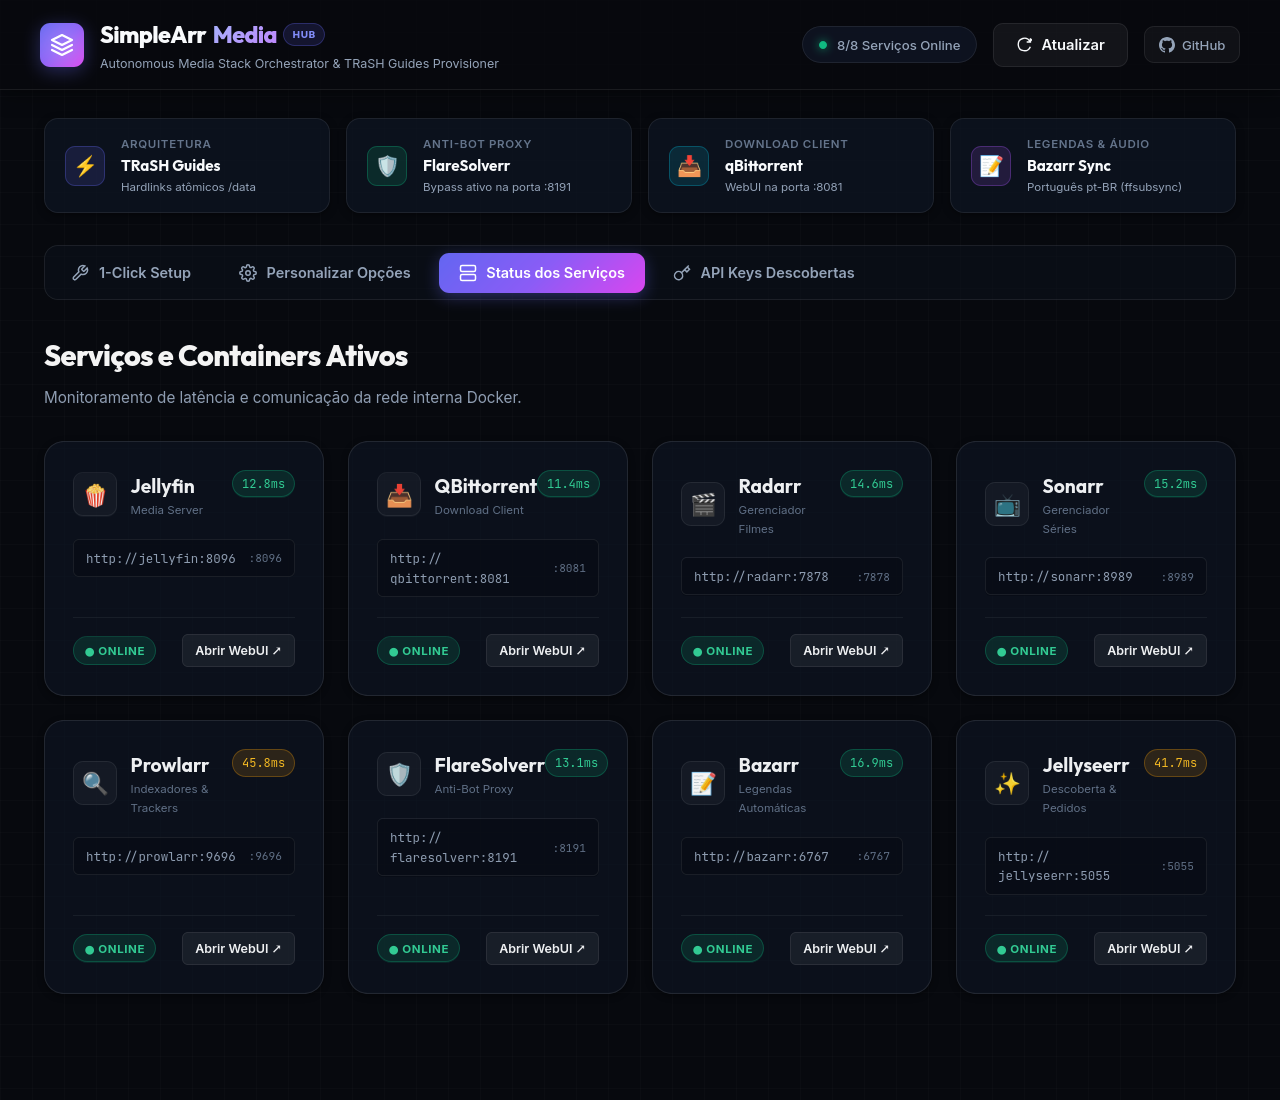
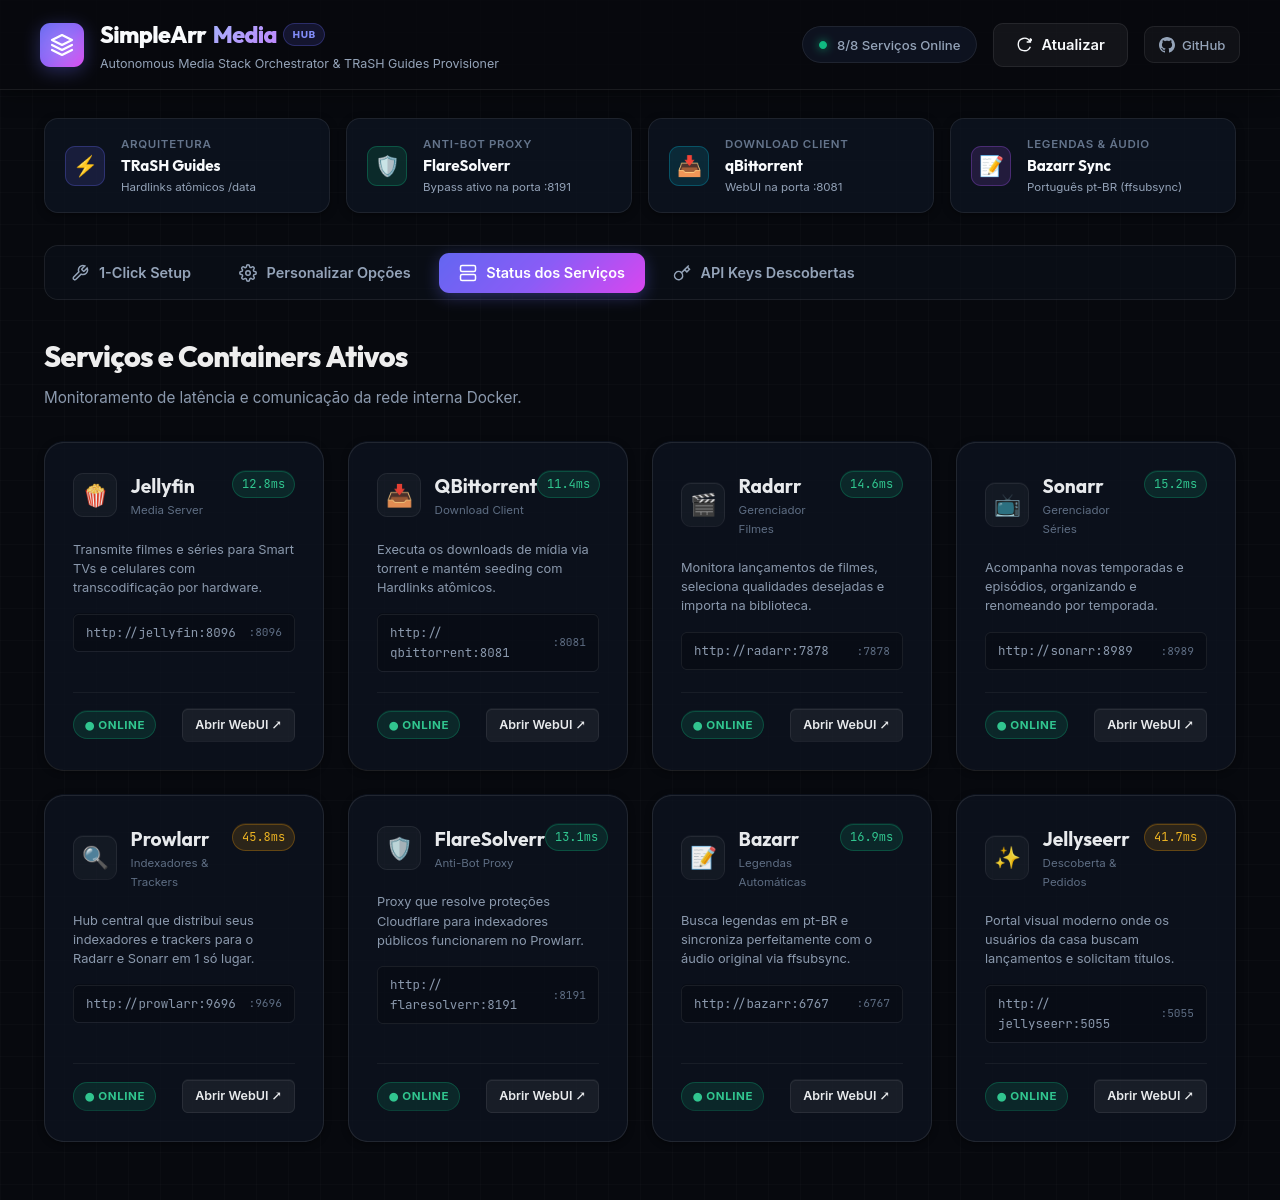
docs: add detailed responsibilities matrix for each service across documentation and UI

diff --git a/hub/app/static/index.html b/hub/app/static/index.html
@@ -608,6 +608,9 @@
                         </div>
                         <span class="service-latency-pill fast">12.8ms</span>
                     </div>
+                    <div class="service-desc-box">
+                        Transmite filmes e séries para Smart TVs e celulares com transcodificação por hardware.
+                    </div>
                     <div class="service-url-box">
                         <span>http://jellyfin:8096</span>
                         <span style="font-size: 0.7rem; color: var(--text-muted);">:8096</span>
@@ -629,6 +632,9 @@
                             </div>
                         </div>
                         <span class="service-latency-pill fast">11.4ms</span>
+                    </div>
+                    <div class="service-desc-box">
+                        Executa os downloads de mídia via torrent e mantém seeding com Hardlinks atômicos.
                     </div>
                     <div class="service-url-box">
                         <span>http://qbittorrent:8081</span>
@@ -652,6 +658,9 @@
                         </div>
                         <span class="service-latency-pill fast">14.6ms</span>
                     </div>
+                    <div class="service-desc-box">
+                        Monitora lançamentos de filmes, seleciona qualidades desejadas e importa na biblioteca.
+                    </div>
                     <div class="service-url-box">
                         <span>http://radarr:7878</span>
                         <span style="font-size: 0.7rem; color: var(--text-muted);">:7878</span>
@@ -673,6 +682,9 @@
                             </div>
                         </div>
                         <span class="service-latency-pill fast">15.2ms</span>
+                    </div>
+                    <div class="service-desc-box">
+                        Acompanha novas temporadas e episódios, organizando e renomeando por temporada.
                     </div>
                     <div class="service-url-box">
                         <span>http://sonarr:8989</span>
@@ -696,6 +708,9 @@
                         </div>
                         <span class="service-latency-pill medium">45.8ms</span>
                     </div>
+                    <div class="service-desc-box">
+                        Hub central que distribui seus indexadores e trackers para o Radarr e Sonarr em 1 só lugar.
+                    </div>
                     <div class="service-url-box">
                         <span>http://prowlarr:9696</span>
                         <span style="font-size: 0.7rem; color: var(--text-muted);">:9696</span>
@@ -717,6 +732,9 @@
                             </div>
                         </div>
                         <span class="service-latency-pill fast">13.1ms</span>
+                    </div>
+                    <div class="service-desc-box">
+                        Proxy que resolve proteções Cloudflare para indexadores públicos funcionarem no Prowlarr.
                     </div>
                     <div class="service-url-box">
                         <span>http://flaresolverr:8191</span>
@@ -740,6 +758,9 @@
                         </div>
                         <span class="service-latency-pill fast">16.9ms</span>
                     </div>
+                    <div class="service-desc-box">
+                        Busca legendas em pt-BR e sincroniza perfeitamente com o áudio original via ffsubsync.
+                    </div>
                     <div class="service-url-box">
                         <span>http://bazarr:6767</span>
                         <span style="font-size: 0.7rem; color: var(--text-muted);">:6767</span>
@@ -761,6 +782,9 @@
                             </div>
                         </div>
                         <span class="service-latency-pill medium">41.7ms</span>
+                    </div>
+                    <div class="service-desc-box">
+                        Portal visual moderno onde os usuários da casa buscam lançamentos e solicitam títulos.
                     </div>
                     <div class="service-url-box">
                         <span>http://jellyseerr:5055</span>

diff --git a/hub/app/static/app.js b/hub/app/static/app.js
@@ -254,16 +254,15 @@ document.addEventListener('DOMContentLoaded', () => {
         });
     }
 
-    // 5. Health Status & Live Latency Indicator
     const serviceMeta = {
-        jellyfin: { icon: '🍿', port: 8096, label: 'Media Server' },
-        qbittorrent: { icon: '📥', port: 8081, label: 'Download Client' },
-        radarr: { icon: '🎬', port: 7878, label: 'Gerenciador Filmes' },
-        sonarr: { icon: '📺', port: 8989, label: 'Gerenciador Séries' },
-        prowlarr: { icon: '🔍', port: 9696, label: 'Indexadores & Trackers' },
-        flaresolverr: { icon: '🛡', port: 8191, label: 'Anti-Bot Proxy' },
-        bazarr: { icon: '📝', port: 6767, label: 'Legendas Automáticas' },
-        jellyseerr: { icon: '✨', port: 5055, label: 'Descoberta & Pedidos' }
+        jellyfin: { icon: '🍿', port: 8096, label: 'Media Server', desc: 'Transmite filmes e séries para Smart TVs e celulares com transcodificação por hardware.' },
+        qbittorrent: { icon: '📥', port: 8081, label: 'Download Client', desc: 'Executa os downloads de mídia via torrent e mantém seeding com Hardlinks atômicos.' },
+        radarr: { icon: '🎬', port: 7878, label: 'Gerenciador Filmes', desc: 'Monitora lançamentos de filmes, seleciona qualidades desejadas e importa na biblioteca.' },
+        sonarr: { icon: '📺', port: 8989, label: 'Gerenciador Séries', desc: 'Acompanha novas temporadas e episódios, organizando e renomeando por temporada.' },
+        prowlarr: { icon: '🔍', port: 9696, label: 'Indexadores & Trackers', desc: 'Hub central que distribui seus indexadores e trackers para o Radarr e Sonarr em 1 só lugar.' },
+        flaresolverr: { icon: '🛡', port: 8191, label: 'Anti-Bot Proxy', desc: 'Proxy que resolve proteções Cloudflare para indexadores públicos funcionarem no Prowlarr.' },
+        bazarr: { icon: '📝', port: 6767, label: 'Legendas Automáticas', desc: 'Busca legendas em pt-BR e sincroniza perfeitamente com o áudio original via ffsubsync.' },
+        jellyseerr: { icon: '✨', port: 5055, label: 'Descoberta & Pedidos', desc: 'Portal visual moderno onde os usuários da casa buscam lançamentos e solicitam títulos.' }
     };
 
     async function loadHealthStatus(isManual = false) {
@@ -300,7 +299,7 @@ document.addEventListener('DOMContentLoaded', () => {
             const card = document.createElement('div');
             card.className = 'service-card';
             
-            const meta = serviceMeta[name] || { icon: '📦', port: '', label: 'Container' };
+            const meta = serviceMeta[name] || { icon: '📦', port: '', label: 'Container', desc: 'Serviço da stack de mídia.' };
             const webLink = meta.port ? `http://${window.location.hostname}:${meta.port}` : s.url;
             
             let latencyClass = 'fast';
@@ -319,6 +318,10 @@ document.addEventListener('DOMContentLoaded', () => {
                     <span class="service-latency-pill ${latencyClass}">
                         ${s.latency_ms ? s.latency_ms + 'ms' : '--'}
                     </span>
+                </div>
+
+                <div class="service-desc-box">
+                    ${meta.desc}
                 </div>
 
                 <div class="service-url-box">

diff --git a/hub/app/static/style.css b/hub/app/static/style.css
@@ -1408,6 +1408,14 @@ input:checked + .slider:before {
     color: #fb7185;
 }
 
+.service-desc-box {
+    font-size: 0.8rem;
+    color: var(--text-secondary);
+    line-height: 1.5;
+    margin-bottom: 1rem;
+    min-height: 2.5rem;
+}
+
 .service-url-box {
     background: rgba(7, 10, 18, 0.6);
     border: 1px solid var(--border-subtle);

diff --git a/README.md b/README.md
@@ -68,6 +68,22 @@ O projeto inclui uma interface de controle própria rodando na porta `5000` para
 
 ![SimpleArr Hub API Keys](docs/screenshots/04_api_keys.png)
 
+## 🧭 Papel e Responsabilidade de Cada Serviço
+
+Para quem está começando no ecossistema *arr, a divisão modular de responsabilidades é o segredo para uma stack estável e autônoma:
+
+| Serviço | Porta | Papel Principal | O que ele faz & Por que existe |
+| :--- | :--- | :--- | :--- |
+| **SimpleArr Hub** | 🚀 `:5000` | **Orquestrador Central** | Automação e setup em 1 clique. Descobre API keys, testa a rede e aplica as regras do TRaSH Guides automaticamente. |
+| **Jellyseerr** | ✨ `:5055` | **Vitrine de Descobertas** | Portal visual moderno estilo Netflix para a família buscar lançamentos e solicitar filmes/séries em 1 clique. |
+| **Radarr** | 🎬 `:7878` | **Gerenciador de Filmes** | Monitora lançamentos de filmes, escolhe qualidades (1080p/4K), envia para download e organiza `/data/media/movies`. |
+| **Sonarr** | 📺 `:8989` | **Gerenciador de Séries** | Monitora temporadas e episódios semanais, renomeia arquivos e organiza pastas por temporada em `/data/media/tv`. |
+| **Prowlarr** | 🔍 `:9696` | **Hub de Indexadores & Trackers** | Cadastro central de sites de torrent (1337x, YTS, TPB, etc.). Sincroniza automaticamente com Radarr e Sonarr em 1 só lugar. |
+| **FlareSolverr** | 🛡 `:8191` | **Bypass Anti-Bot / Cloudflare** | Atua como proxy inteligente para responder a desafios Cloudflare de sites públicos sem que os trackers quebrem. |
+| **qBittorrent** | 📥 `:8081` | **Motor de Downloads** | Baixa os arquivos via torrent com alta performance e gerencia categorias (`movies`, `tv`) com seeding contínuo. |
+| **Bazarr** | 📝 `:6767` | **Legendas Automáticas** | Varre a biblioteca buscando legendas em pt-BR e sincroniza perfeitamente pelo áudio original do vídeo (`ffsubsync`). |
+| **Jellyfin** | 🍿 `:8096` | **Servidor de Streaming** | O "Netflix próprio": organiza pôsteres, metadados e faz transcodificação por hardware (Intel QSV) para Smart TVs e celulares. |
+
 ---
 
 ## 🌐 Portas e URLs de Acesso

diff --git a/docs/ARCHITECTURE.md b/docs/ARCHITECTURE.md
@@ -59,3 +59,34 @@ O Jellyfin expõe as portas de rede necessárias para descoberta automática sem
 * **`8096/tcp`**: Interface Web e streaming HTTP.
 * **`7359/udp`**: Protocolo de descoberta automática de clientes Jellyfin (Roku, Android TV, webOS, Tizen).
 * **`1900/udp`**: Protocolo SSDP / DLNA (para aparelhos e TVs antigas que não possuem o app na loja e transmitem via "Fontes de Mídia").
+
+---
+
+## 4. Matriz de Responsabilidades da Stack
+
+Cada container possui uma responsabilidade única e bem delimitada para garantir que falhas isoladas não paralisem toda a mídia:
+
+1. **Jellyseerr (`:5055`)**:
+   - **Papel**: Interface de descoberta para os usuários finais da casa.
+   - **Isolação**: Não faz downloads nem manipula arquivos de disco. Apenas se comunica via REST API com Radarr e Sonarr.
+
+2. **Radarr (`:7878`) & Sonarr (`:8989`)**:
+   - **Papel**: Inteligência de catalogação, verificação de qualidade (perfis 1080p/4K) e ordenação de arquivos.
+   - **Isolação**: Não baixam torrents diretamente; delegam o tráfego de rede P2P para o qBittorrent.
+
+3. **Prowlarr (`:9696`) & FlareSolverr (`:8191`)**:
+   - **Papel**: Abstração de indexadores e proxy anti-bot.
+   - **Isolação**: Radarr e Sonarr não precisam saber como resolver Cloudflare ou se comunicar com 10 sites diferentes; consultam apenas o Prowlarr.
+
+4. **qBittorrent (`:8081`)**:
+   - **Papel**: Motor exclusivo de download e upload (seeding).
+   - **Isolação**: Não renomeia nem decide onde os filmes finais devem ficar; salva em `/data/torrents` e deixa o Radarr/Sonarr criar os hardlinks em `/data/media`.
+
+5. **Bazarr (`:6767`)**:
+   - **Papel**: Busca e sincronização cirúrgica de legendas.
+   - **Isolação**: Executa em segundo plano sem travar o download do vídeo principal, corrigindo discrepâncias de tempo via `ffsubsync`.
+
+6. **Jellyfin (`:8096`)**:
+   - **Papel**: Entrega de streaming de alta fidelidade e transcodificação.
+   - **Isolação**: Apenas leitura em `/data/media`.
+
